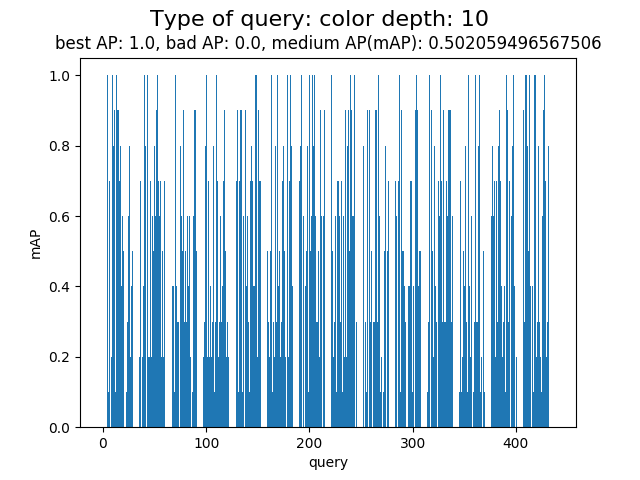
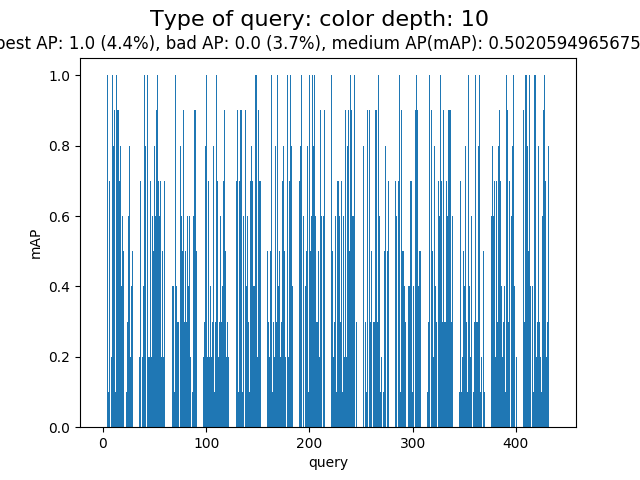
release beta 1

Changed region(s): [[0.4062, 0.0625, 1.0, 0.125], [0.0, 0.0625, 0.25, 0.125]]

diff --git a/evaluation/main.py b/evaluation/main.py
@@ -1,7 +1,7 @@
 import argparse
 from core.create_index import CreateIndex
 from core.mAP import Evaluate
-from core.plt import show_summary,show_image_result
+from core.plt import show_summary,show_image_result,print_log
 import pandas as pd
 import numpy as np
 if __name__=='__main__':
@@ -9,18 +9,23 @@ if __name__=='__main__':
     parser.add_argument("-t","--type", help="color, daisy,gabor,hog,sift,resnet",default='color', type=str)
     parser.add_argument("-d","--depth", help="size of results",default=10, type=int)
     parser.add_argument("-m","--mode", help="init,query,eval",default='init',type=str)
+    parser.add_argument("-l","--log",help="file log",default='log',type=str)
     args = parser.parse_args()
     type_ex=args.type
+    log=args.log
+    log=print_log(output_dir=log,type_ex=type_ex)
     if args.mode == 'init':
+        log(10*'-'+'mode create index'+10*'-')
         df_sample= pd.read_csv(r'index/samples.csv')
-        create_index=CreateIndex(df_sample.values,path_image='../data/style/', type_ex=type_ex,path_index_root='index')
+        create_index=CreateIndex(df_sample.values,path_image='data_folder/images/', type_ex=type_ex,path_index_root='index',log=log)
         create_index(distance_type="Normalized Cosine")
     elif args.mode == 'query':
         print('init')
     elif args.mode == 'eval':
+        log(10*'-'+'mode evaluation query'+10*'-')
         depth=int(args.depth)
         if depth!=10: print('depth: %s'%depth)
-        folder_img = '../data/style/'
+        folder_img = 'data_folder/images/'
         output_dir='summary/'
         df_query= pd.read_csv(r'index/querys.csv')
         df_sample= pd.read_csv(r'index/samples.csv')
@@ -34,16 +39,24 @@ if __name__=='__main__':
         list_AP=np.array(list_eval[:,0])
         best_id=np.argmax(list_AP)
         bad_id=np.argmin(list_AP)
+        best_percent=np.sum(list_AP==list_AP.max())/depth
+        bad_percent=np.sum(list_AP==list_AP.min())/depth
 
-        summary="best AP: %s, bad AP: %s, medium AP(mAP): %s"%(np.max(list_AP),np.min(list_AP),np.mean(list_AP))
-        print(summary)
+        summary="best AP: %s (%s%%), bad AP: %s (%s%%), medium AP(mAP): %.3f"%(np.max(list_AP),best_percent,np.min(list_AP),bad_percent,np.mean(list_AP))
+        print(summary); log(summary)
         show_summary(list_AP,type_ex=type_ex,depth=depth,summary=summary,is_save=True,output_dir=output_dir)
         print(list_eval[best_id,1:])
         print(list_eval[bad_id,1:])
+        
         id_best_query,id_best_results=list_eval[best_id,1:]
         print(db_query[id_best_query])
         print([db_sample[id] for id in id_best_results])
         show_image_result(db_query[id_best_query], [db_sample[id] for id in id_best_results],type_ex=type_ex,depth_show=10, is_save=True, type_show='best',output_dir=output_dir)
+
+        id_bad_query,id_bad_results=list_eval[bad_id,1:]
+        print(db_query[id_bad_query])
+        print([db_sample[id] for id in id_bad_results])
+        show_image_result(db_query[id_bad_query], [db_sample[id] for id in id_bad_results],type_ex=type_ex,depth_show=10, is_save=True, type_show='bad',output_dir=output_dir)
     else:
         print('not support')
 

diff --git a/evaluation/core/create_index.py b/evaluation/core/create_index.py
@@ -4,7 +4,9 @@ import ngtpy
 import os
 import shutil
 import yaml
+import time
 
+from .plt import print_log
 from .color import Color
 from .HOG import HOG
 from .daisy import Daisy
@@ -24,12 +26,15 @@ def general_sample_and_query():
     query_df.to_csv(r'../index/querys.csv',index=None)
 
 class CreateIndex(object):
-    def __init__(self,db_sample,path_image,type_ex='color', path_index_root='../index'):
+    def __init__(self,db_sample,path_image,type_ex='color', path_index_root='../index',log='../log'):
         self.type_ex=type_ex
         self.db_sample=db_sample
         self.path_image=path_image
         self.path_index=os.path.join(path_index_root,type_ex)
         self.ex=self.create_extractor(self.type_ex)
+        if log:
+            self.log=print_log(log,type_ex)
+        else: self.log=None
     @staticmethod
     def create_extractor(type_ex):
         assert type_ex in ['color', 'daisy','gabor','hog','sift','resnet'], 'not support type of extractor'
@@ -38,7 +43,7 @@ class CreateIndex(object):
         elif type_ex=='daisy':
             return Daisy()
         elif type_ex=='gabor':
-            return Daisy()
+            return Gabor()
         elif type_ex=='hog':
             return HOG()
         elif type_ex=='sift':
@@ -50,16 +55,28 @@ class CreateIndex(object):
             return None
 
     def __call__(self,**kwargs):
+        # print('dimesion: ',self.ex.dimension)
         ngtpy.create(self.path_index, dimension=self.ex.dimension,**kwargs)
         index_ngtpy = ngtpy.Index(self.path_index)
+        print('---create index database with %s sample at %s---'%(len(self.db_sample), time.ctime()))
+        if self.log is not None:
+            self.log('---create index database with %s sample at %s---'%(len(self.db_sample), time.ctime()))
+        start_time=time.time()
         for row in self.db_sample:
-            hist=self.ex.feature(os.path.join(self.path_image,row[-1]))
+            hist=self.ex.feature(os.path.join(self.path_image,row[-1])) #img colum
+            # print(hist)
             objectID = index_ngtpy.insert(hist)
-            if objectID % 500 == 0:
-                print('Processed {} objects.'.format(objectID))
+            if objectID>0 and objectID % 500 == 0:
+                print('Processed %d objects and take %.3f seconds'%(objectID,time.time()-start_time))
+        if self.log is not None:
+            end_time=time.time()
+            self.log('Take %d seconds total.'%(end_time-start_time))
+            self.log('Average processing time  %d ms per one sample.\nStart build index'%((end_time-start_time)*1000/len(self.db_sample)))
         index_ngtpy.build_index()
         index_ngtpy.save()
         index_ngtpy.close()
+        if self.log is not None:
+            self.log('Build success!')
     
 
 if __name__=='__main__':

diff --git a/evaluation/core/plt.py b/evaluation/core/plt.py
@@ -2,6 +2,18 @@ import matplotlib.pyplot as plt
 import numpy as np
 import os
 import scipy.misc
+class print_log:
+    def __init__(self,output_dir='log/',type_ex='color'):
+        if not os.path.exists(output_dir):
+            os.makedirs(output_dir)
+        path_log=os.path.join(output_dir,type_ex)
+        if not os.path.exists(path_log):
+            os.makedirs(path_log)
+        self.f=open(os.path.join(path_log,'logfile'), "a+")
+    def __call__(self,content, end='\n'):
+        self.f.write(content+end)
+
+
 def show_summary(y,type_ex=None,depth=10,summary=None,is_save=False,output_dir = "../../summary/"):
     x=range(len(y))
     f = plt.figure()
@@ -41,8 +53,8 @@ def show_image_result(query, results,type_ex=None, depth_show=10,is_save=False, 
             ax.imshow(img,interpolation='nearest')
         elif num > cols-1:
             if num-cols<len(results):
-                if isinstance(results[num-cols][1], np.ndarray):  # examinate input type
-                    img = results[num-cols][1].copy()
+                if isinstance(results[num-cols][-1], np.ndarray):  # examinate input type
+                    img = results[num-cols][-1].copy()
                 else:
                     img = scipy.misc.imread(results[num-cols][-1], mode='RGB')
                 ax = f.add_subplot(rows,cols,num+1)

diff --git a/evaluation/core/color.py b/evaluation/core/color.py
@@ -1,8 +1,8 @@
 from __future__ import print_function
 
 from six.moves import cPickle
-import numpy as np
-import scipy.misc
+import numpy as np 
+import cv2
 import itertools
 import os
 import yaml
@@ -39,7 +39,8 @@ class Color(object):
         if isinstance(input, np.ndarray):  # examinate input type
             img = input.copy()
         else:
-            img = scipy.misc.imread(input, mode='RGB')
+            img = cv2.imread(input)
+            img = cv2.cvtColor(img,cv2.COLOR_BGR2RGB)
         height, width, channel = img.shape
         bins = np.linspace(0, 256, self.n_bin+1, endpoint=True)  # slice bins equally for each channel
     
@@ -82,15 +83,11 @@ class Color(object):
 
 if __name__ == "__main__":
     color = Color()
-    input = '../../data/style/0_0_001.png'
-    # test normalize
-    # hist = color.feature(input, type='global')
+    input = '../data_folder/images/0_0_001.png'
     hist = color.feature(input)
     assert hist.sum() - 1 < 1e-9, "normalize false"
-    print(color.dimension)
+
     input = '../../data/style/0_0_006.png'
-    # test normalize
-    # hist2 = color.feature(input, type='global')
     hist2 = color.feature(input)
     assert hist.sum() - 1 < 1e-9, "normalize false"
     # print(hist2)

diff --git a/evaluation/core/mAP.py b/evaluation/core/mAP.py
@@ -2,6 +2,8 @@ import numpy as np
 import ngtpy
 import pandas as pd
 import yaml
+import time
+
 from .plt import show_image_result,show_summary
 import os
 from .color import Color
@@ -10,7 +12,6 @@ from .daisy import Daisy
 from .gabor import Gabor
 from .SIFT import SIFT
 from .resnet import Restnet_Ex
-
 
 cfg=yaml.safe_load(open('core/config.yaml'))
 class Evaluate(object):
@@ -58,7 +59,7 @@ class Evaluate(object):
         for id_lbl,(lbl,_,ip) in enumerate(db_query):
             results=self.query(ip)
             id_result=[id for id,_ in results]
-            lbl_result=np.array([db_sample[i][0] for i in id_result])
+            lbl_result=np.array([db_sample[i][0] for i in id_result]) #colum lbl
             _ap=(lbl_result==lbl).sum()/ self.depth
             list_AP.append((_ap,id_lbl,id_result))
             if id_lbl%500==0:

diff --git a/evaluation/core/gabor.py b/evaluation/core/gabor.py
@@ -6,8 +6,8 @@ from scipy import ndimage as ndi
 
 import multiprocessing
 import numpy as np
-import scipy.misc
 import os
+import cv2
 
 import yaml
 cfg=yaml.safe_load(open('core/config.yaml'))
@@ -70,7 +70,8 @@ class Gabor(object):
         if isinstance(input, np.ndarray):  # examinate input type
             img = input.copy()
         else:
-            img = scipy.misc.imread(input, mode='RGB')
+            img = cv2.imread(input)
+            img = cv2.cvtColor(img,cv2.COLOR_BGR2RGB)
         height, width, channel = img.shape
     
         if self.type == 'global':
@@ -89,7 +90,7 @@ class Gabor(object):
         if self.normalize:
             hist /= np.sum(hist)
     
-        return hist.flatten()
+        return hist.flatten()[:self.dimension]
   
   
     def _feats(self, image, kernel):

diff --git a/evaluation/core/HOG.py b/evaluation/core/HOG.py
@@ -2,8 +2,8 @@ from __future__ import print_function
 from skimage.feature import hog
 from skimage import color
 import numpy as np
-import scipy.misc
 import os
+import cv2
 import yaml
 cfg=yaml.safe_load(open('core/config.yaml'))
 type_ex='hog'
@@ -41,7 +41,8 @@ class HOG(object):
         if isinstance(input, np.ndarray):  # examinate input type
             img = input.copy()
         else:
-            img = scipy.misc.imread(input, mode='RGB')
+            img = cv2.imread(input)
+            img = cv2.cvtColor(img,cv2.COLOR_BGR2RGB)
         height, width, channel = img.shape
   
         if self.type == 'global':

diff --git a/evaluation/move.py b/evaluation/move.py
@@ -1,0 +1,10 @@
+import shutil
+import glob
+
+imgs=glob.glob('data_folder/tablets/images/*.*')
+
+for img in imgs:
+    try:
+        shutil.move(img,'data_folder/images/')
+    except:
+        print('trung lap: ',img)

diff --git a/evaluation/core/SIFT.py b/evaluation/core/SIFT.py
@@ -2,7 +2,6 @@ from __future__ import print_function
 from skimage.feature import hog
 from skimage import color
 import numpy as np
-import scipy.misc
 import os
 import cv2
 import yaml
